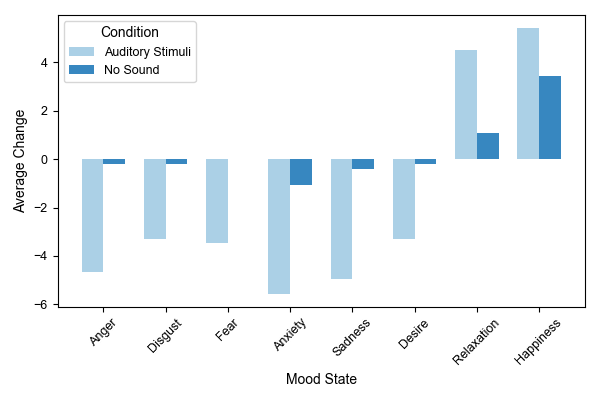
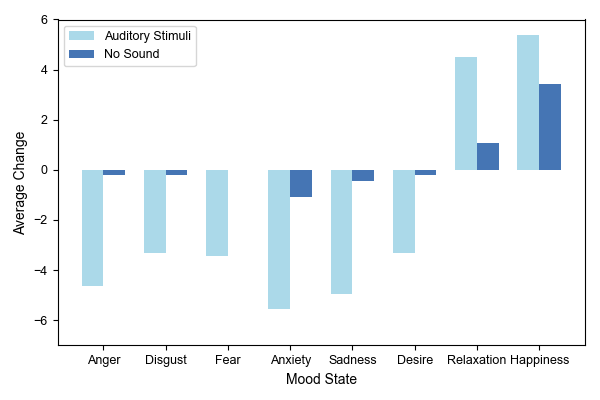
.

diff --git a/POMS/DEQ_indT-Test_MS_grouped.py b/POMS/DEQ_indT-Test_MS_grouped.py
@@ -14,7 +14,7 @@ file_path = os.path.join(folder_path, input_file)
 data = pd.read_csv(file_path)
 
 # Define the column for motion sickness
-motion_sickness_col =  'Did you experience any discomfort or adverse effects (physical or emotional, like nausea/dizziness due to motion sickness) during or after the virtual reality experience?'
+motion_sickness_col = 'Did you experience any discomfort or adverse effects (physical or emotional, like nausea/dizziness due to motion sickness) during or after the virtual reality experience?'
 
 # Filter out participants without motion sickness
 no_motion_sickness = data[data[motion_sickness_col] == 'No'].copy()
@@ -36,7 +36,7 @@ def cohen_d(x, y):
     nx = len(x)
     ny = len(y)
     dof = nx + ny - 2
-    return (np.mean(x) - np.mean(y)) / np.sqrt(((nx-1)*np.var(x, ddof=1) + (ny-1)*np.var(y, ddof=1)) / dof)
+    return (np.mean(x) - np.mean(y)) / np.sqrt(((nx - 1) * np.var(x, ddof=1) + (ny - 1) * np.var(y, ddof=1)) / dof)
 
 # Perform independent t-tests and calculate effect sizes
 results = []
@@ -44,9 +44,12 @@ for mood in mood_states:
     no_sound_data = no_motion_sickness[no_motion_sickness['Combined_Condition'] == 'No Sound'][f'Change_{mood}'].dropna()
     auditory_stimuli_data = no_motion_sickness[no_motion_sickness['Combined_Condition'] == 'Auditory Stimuli'][f'Change_{mood}'].dropna()
 
-    t_stat, p_val = ttest_ind(no_sound_data, auditory_stimuli_data)
-    effect_size = cohen_d(no_sound_data, auditory_stimuli_data)
-    results.append({'Mood State': mood, 't-statistic': t_stat, 'p-value': p_val, 'Effect Size (Cohen\'s d)': effect_size})
+    if len(no_sound_data) > 0 and len(auditory_stimuli_data) > 0:
+        t_stat, p_val = ttest_ind(no_sound_data, auditory_stimuli_data)
+        effect_size = cohen_d(no_sound_data, auditory_stimuli_data)
+        results.append({'Mood State': mood, 't-statistic': t_stat, 'p-value': p_val, 'Effect Size (Cohen\'s d)': effect_size})
+    else:
+        results.append({'Mood State': mood, 't-statistic': np.nan, 'p-value': np.nan, 'Effect Size (Cohen\'s d)': np.nan})
 
 # Create DataFrame to display results
 results_df = pd.DataFrame(results)
@@ -61,18 +64,21 @@ plt.rc('font', family='sans-serif')  # Use a sans-serif font
 plt.rc('font', **{'sans-serif': 'Arial'})  # Specifically use Arial
 
 group_means = no_motion_sickness.groupby('Combined_Condition')[[f'Change_{mood}' for mood in mood_states]].mean()
-colors = sns.color_palette("Blues", n_colors=2)
+colors = ["#abd9e9", "#4575b4"]
 bar_width = 0.35
 index = np.arange(len(mood_states))
 
 for i, condition in enumerate(group_means.index):
-    plt.bar(index + i * bar_width, group_means.loc[condition], bar_width, label=condition, color=colors[i % len(colors)])
+    mean_changes = group_means.loc[condition].apply(lambda x: x if x != 0 else 0.01)
+    for j, value in enumerate(mean_changes):
+        color = 'darkblue' if value == 0.01 else colors[i % len(colors)]
+        plt.bar(index[j] + i * bar_width, value, bar_width, label=condition if j == 0 else "", color=color)
 
 plt.xlabel('Mood State')
 plt.ylabel('Average Change')
-#plt.title('Average Change in Mood States by Audio Condition')
-plt.xticks(index + bar_width / 2, mood_states, rotation=45)
-plt.legend(title='Condition')
+plt.ylim(-7, 6)  # Adjust the y-axis limits for better visibility
+plt.xticks(index + bar_width / 2, mood_states)
+plt.legend(title='')
 plt.tight_layout()
 
 # Display t-test results

diff --git a/POMS/DEQ_normality_variance.py b/POMS/DEQ_normality_variance.py
@@ -47,15 +47,15 @@ for score in change_scores:
     print()
 
 # Plot settings for better readability on A4
-plt.rcParams.update({'font.size': 14, 'axes.titlesize': 16, 'axes.labelsize': 16, 'xtick.labelsize': 12, 'ytick.labelsize': 12, 'legend.fontsize': 14})
+plt.rcParams.update({'font.size': 14, 'axes.titlesize': 14, 'axes.labelsize': 12, 'xtick.labelsize': 12, 'ytick.labelsize': 12, 'legend.fontsize': 12})
 
 # Distribution plots
 plt.figure(figsize=(10.5, 7))  
 for i, score in enumerate(change_scores, 1):
     plt.subplot(2, 4, i)
     mood = score.split('_')[1]  
-    sns.histplot(data[score], kde=True)
-    plt.title(f'Change in {mood}')  
+    sns.histplot(data[score], kde=True, binwidth=3)
+    plt.title(f'{mood}')  
     plt.xlabel('Change Score')
     plt.ylabel('Frequency')
 
@@ -65,13 +65,14 @@ output_image = os.path.join(image_path, 'DEQ_distribution.png')
 plt.savefig(output_image, dpi=300)  # High resolution for A4 print
 plt.show()
 
-# Boxplots
-plt.figure(figsize=(21, 14))  # A4 size in inches
+# Boxplots with different colors
+plt.figure(figsize=(10.5, 7))  # A4 size in inches
+palette = ["#abd9e9", "#74add1", "#4575b4"]
 for i, score in enumerate(change_scores, 1):
     plt.subplot(2, 4, i)
-    sns.boxplot(x='Condition', y=score, data=data)
+    sns.boxplot(x='Condition', y=score, data=data, palette=palette)
     mood = score.split('_')[1]
-    plt.title(f'Change in {mood}')
+    plt.title(f'{mood}')
     plt.xlabel('Condition')
     plt.ylabel('Change Score')
 

diff --git a/sickness_comparison.py b/sickness_comparison.py
@@ -46,6 +46,7 @@ index = np.arange(len(mood_states))
 plt.bar(index, avg_change_motion_sickness, bar_width, label='Motion Sickness', color="#4575b4")
 plt.bar(index + bar_width, avg_change_no_motion_sickness, bar_width, label='No Motion Sickness', color="#abd9e9")
 
+
 plt.xlabel('Mood State')
 plt.ylabel('Average Change')
 #plt.title('Average Change in Mood States for Participants with and without Motion Sickness')
